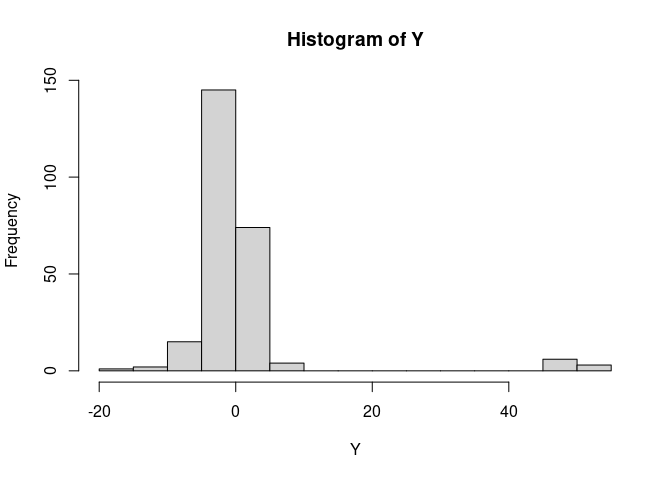
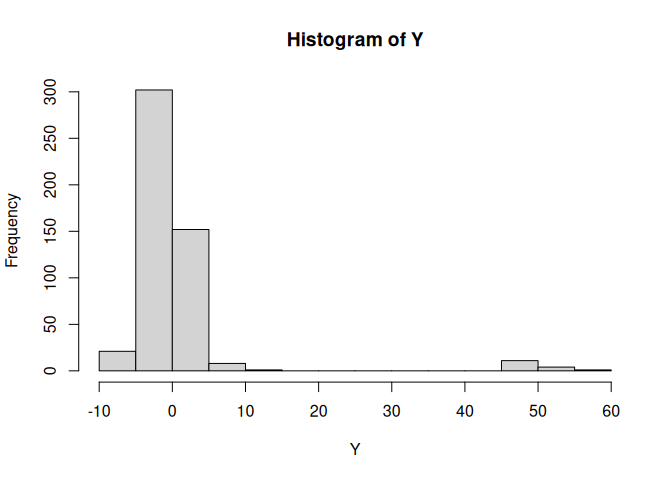
update readme and front end example

diff --git a/README.md b/README.md
@@ -1,7 +1,7 @@
 
 <!-- README.md is generated from README.Rmd. Please edit this file -->
 
-# gddlm – Robust double linear models using gamma divergence
+# gddlm: Robust double linear models using gamma divergence
 
 <!-- badges: start -->
 
@@ -27,8 +27,9 @@ the help of `pak` package using:
 
 # Getting started and example usage
 
-Please check the help file for the main `gddlm` function after
-installation. Alternatively, you can follow the basic example below.
+Please check the help files for the main `gddlm` and `gddlm_lsa`
+functions after installation. Alternatively, you can follow the basic
+example below.
 
 ``` r
 library(tidyverse)
@@ -42,8 +43,8 @@ Simulate data from a double linear model with (average 5%) outliers in
 the response variable
 
 ``` r
-set.seed(012026)
-n <- 250
+set.seed(062026)
+n <- 500
 p <- 10
 H <- abs(outer(1:p, 1:p, "-"))
 H <- 0.75^H
@@ -88,9 +89,6 @@ runcv <- cv_gddlm(mu_formula = make_mu_formula,
 #> Onto fold 8...
 #> Onto fold 9...
 #> Onto fold 10...
-```
-
-``` r
 
 fit_gddglm_choosegamma <- gddlm(mu_formula = make_mu_formula,
                                 sigma_formula = make_sigma_formula,
@@ -103,105 +101,97 @@ Demonstration of some of the functions available in the package
 ``` r
 fit_gddglm_choosegamma %>% 
     str
-#> List of 15
+#> List of 16
 #>  $ call                : language gddlm(mu_formula = make_mu_formula, sigma_formula = make_sigma_formula,      data = data.frame(response = Y, X[, | __truncated__
 #>  $ mu_formula          :Class 'formula'  language response ~ X1 + X2 + X3 + X4 + X5 + X6 + X7 + X8 + X9 + X10
-#>   .. ..- attr(*, ".Environment")=<environment: 0x5c80cbde12e8> 
+#>   .. ..- attr(*, ".Environment")=<environment: 0x6510dee4e950> 
 #>  $ sigma_formula       :Class 'formula'  language ~X1 + X2 + X3 + X4 + X5 + X6 + X7 + X8 + X9 + X10
-#>   .. ..- attr(*, ".Environment")=<environment: 0x5c80cbe95960> 
-#>  $ model               :'data.frame':    250 obs. of  11 variables:
-#>   ..$ response: num [1:250] 0.02842 -1.13633 0.26403 1.51584 -0.00728 ...
-#>   ..$ X1      : num [1:250] -0.743 -1.604 -0.867 -0.973 -0.34 ...
-#>   ..$ X2      : num [1:250] -0.383 -1.58 0.505 -0.894 -0.606 ...
-#>   ..$ X3      : num [1:250] 0.08 -0.3233 0.2707 -0.6501 0.0689 ...
-#>   ..$ X4      : num [1:250] 0.54 -0.198 0.597 -0.684 -1.314 ...
-#>   ..$ X5      : num [1:250] 0.782 -1.444 0.765 -0.977 -0.963 ...
-#>   ..$ X6      : num [1:250] 0.0218 -1.0271 0.6141 -0.6685 0.1256 ...
-#>   ..$ X7      : num [1:250] -1.2093 -0.3664 0.3461 -0.132 0.0804 ...
-#>   ..$ X8      : num [1:250] -0.987 -0.552 -0.296 -0.351 0.268 ...
-#>   ..$ X9      : num [1:250] -0.0254 -0.8484 0.4772 -0.6726 0.5565 ...
-#>   ..$ X10     : num [1:250] 0.294 -1.241 0.768 -0.739 1.281 ...
-#>   ..- attr(*, "terms")=Classes 'terms', 'formula'  language response ~ X1 + X2 + X3 + X4 + X5 + X6 + X7 + X8 + X9 + X10
-#>   .. .. ..- attr(*, "variables")= language list(response, X1, X2, X3, X4, X5, X6, X7, X8, X9, X10)
-#>   .. .. ..- attr(*, "factors")= int [1:11, 1:10] 0 1 0 0 0 0 0 0 0 0 ...
-#>   .. .. .. ..- attr(*, "dimnames")=List of 2
-#>   .. .. .. .. ..$ : chr [1:11] "response" "X1" "X2" "X3" ...
-#>   .. .. .. .. ..$ : chr [1:10] "X1" "X2" "X3" "X4" ...
-#>   .. .. ..- attr(*, "term.labels")= chr [1:10] "X1" "X2" "X3" "X4" ...
-#>   .. .. ..- attr(*, "order")= int [1:10] 1 1 1 1 1 1 1 1 1 1
-#>   .. .. ..- attr(*, "intercept")= int 1
-#>   .. .. ..- attr(*, "response")= int 1
-#>   .. .. ..- attr(*, ".Environment")=<environment: R_GlobalEnv> 
-#>   .. .. ..- attr(*, "predvars")= language list(response, X1, X2, X3, X4, X5, X6, X7, X8, X9, X10)
-#>   .. .. ..- attr(*, "dataClasses")= Named chr [1:11] "numeric" "numeric" "numeric" "numeric" ...
-#>   .. .. .. ..- attr(*, "names")= chr [1:11] "response" "X1" "X2" "X3" ...
-#>  $ mu_coefficients     : Named num [1:11] -1.045 -1.11 1.253 -0.656 0.441 ...
+#>   .. ..- attr(*, ".Environment")=<environment: 0x6510deeb18b8> 
+#>  $ model               :'data.frame':    500 obs. of  11 variables:
+#>   ..$ response: num [1:500] -1.58 10.06 -1.85 -3.26 -2.56 ...
+#>   ..$ X1      : num [1:500] 1.892 0.674 -0.583 0.789 1.244 ...
+#>   ..$ X2      : num [1:500] 0.995 1.229 -0.407 -0.667 0.757 ...
+#>   ..$ X3      : num [1:500] 1.177 0.14 0.368 -0.295 0.785 ...
+#>   ..$ X4      : num [1:500] 0.873 -1.108 -0.143 -1.546 1.28 ...
+#>   ..$ X5      : num [1:500] 1.118 -0.349 0.742 -1.604 1.253 ...
+#>   ..$ X6      : num [1:500] 1.993 0.897 -0.146 -1.317 0.848 ...
+#>   ..$ X7      : num [1:500] 2.237 0.479 -0.235 -1.316 1.426 ...
+#>   ..$ X8      : num [1:500] 1.53 -1.364 -0.568 -1.973 -0.406 ...
+#>   ..$ X9      : num [1:500] 0.978 -0.65 -0.746 -2.823 -1.585 ...
+#>   ..$ X10     : num [1:500] 1.277 -2.057 0.391 -2.11 -0.594 ...
+#>  $ mu_coefficients     : Named num [1:11] -1.008 -0.714 0.795 -0.767 0.628 ...
 #>   ..- attr(*, "names")= chr [1:11] "(Intercept)" "X1" "X2" "X3" ...
-#>  $ sigma_coefficients  : Named num [1:11] 0.474 0.484 -0.144 0.156 -0.478 ...
+#>  $ sigma_coefficients  : Named num [1:11] 0.5218 0.5593 -0.0182 -0.0566 -0.4533 ...
 #>   ..- attr(*, "names")= chr [1:11] "(Intercept)" "X1" "X2" "X3" ...
-#>  $ mu_fitted           : num [1:250] -0.149 -1.551 0.98 -1.276 -2.366 ...
-#>  $ sigma_fitted        : num [1:250] 0.863 1.334 0.757 1.69 1.914 ...
-#>  $ raw_residuals       : num [1:250] 0.177 0.415 -0.716 2.792 2.359 ...
-#>  $ pearson_residuals   : num [1:250] 0.205 0.311 -0.946 1.652 1.232 ...
-#>  $ final_weights       : num [1:250] 1.389 1.209 1.272 0.759 0.876 ...
-#>  $ gamma_tuning        : num 0.3
-#>  $ gamma_divergence    : num -446
-#>  $ V_mu_coefficients   : num [1:11, 1:11] 0.01909 0.01114 -0.00399 0.00179 -0.00784 ...
+#>  $ mu_fitted           : num [1:500] -2 -1.59 -1.02 -3.17 -1 ...
+#>  $ sigma_fitted        : num [1:500] 3.55 5.61 1.58 6.03 2.98 ...
+#>  $ raw_residuals       : num [1:500] 0.4238 11.6476 -0.8268 -0.0924 -1.5523 ...
+#>  $ pearson_residuals   : num [1:500] 0.1194 2.077 -0.5239 -0.0153 -0.5205 ...
+#>  $ final_weights       : num [1:500] 0.893 0.358 1.133 0.744 0.907 ...
+#>  $ gamma_tuning        : num 0.35
+#>  $ gamma_divergence    : num -879
+#>  $ V_full              : num [1:22, 1:22] 1.02e-02 5.46e-03 1.14e-05 1.52e-04 -5.17e-03 ...
+#>   ..- attr(*, "dimnames")=List of 2
+#>   .. ..$ : chr [1:22] "(Intercept)" "X1" "X2" "X3" ...
+#>   .. ..$ : chr [1:22] "(Intercept)" "X1" "X2" "X3" ...
+#>  $ V_mu_coefficients   : num [1:11, 1:11] 1.02e-02 5.46e-03 1.14e-05 1.52e-04 -5.17e-03 ...
 #>   ..- attr(*, "dimnames")=List of 2
 #>   .. ..$ : chr [1:11] "(Intercept)" "X1" "X2" "X3" ...
 #>   .. ..$ : chr [1:11] "(Intercept)" "X1" "X2" "X3" ...
-#>  $ V_sigma_coefficients: num [1:11, 1:11] 0.003675 0.000201 0.000582 -0.000734 0.000143 ...
+#>  $ V_sigma_coefficients: num [1:11, 1:11] 2.00e-03 3.09e-04 2.73e-04 3.83e-05 -6.35e-04 ...
 #>   ..- attr(*, "dimnames")=List of 2
 #>   .. ..$ : chr [1:11] "(Intercept)" "X1" "X2" "X3" ...
 #>   .. ..$ : chr [1:11] "(Intercept)" "X1" "X2" "X3" ...
 #>  - attr(*, "class")= chr "gddlm"
-```
-
-``` r
 
 summary(fit_gddglm_choosegamma)
-#> Double linear model fitted using gamma divergence with gamma = 0.3 
+#> Double linear model fitted using gamma divergence with gamma = 0.35 
 #> Formula:
 #> response ~ X1 + X2 + X3 + X4 + X5 + X6 + X7 + X8 + X9 + X10
-#> <environment: 0x5c80cbde12e8>
+#> <environment: 0x6510dee4e950>
 #> ~X1 + X2 + X3 + X4 + X5 + X6 + X7 + X8 + X9 + X10
-#> <environment: 0x5c80cbe95960>
+#> <environment: 0x6510deeb18b8>
 #> 
 #> Parametric coefficients (mu and sigma):
 #>                    Estimate Std. Error z value Pr(>|z|)    
-#> mu_(Intercept)    -1.045292   0.138169  -7.565 3.87e-14 ***
-#> mu_X1             -1.110320   0.145234  -7.645 2.09e-14 ***
-#> mu_X2              1.252945   0.190682   6.571 5.00e-11 ***
-#> mu_X3             -0.655773   0.174682  -3.754 0.000174 ***
-#> mu_X4              0.441316   0.156681   2.817 0.004853 ** 
-#> mu_X5              0.335970   0.185683   1.809 0.070393 .  
-#> mu_X6             -0.097287   0.172607  -0.564 0.573007    
-#> mu_X7              0.056360   0.180755   0.312 0.755192    
-#> mu_X8             -0.190879   0.155283  -1.229 0.218984    
-#> mu_X9              0.208394   0.139987   1.489 0.136574    
-#> mu_X10            -0.037177   0.130372  -0.285 0.775522    
-#> sigma_(Intercept)  0.473962   0.060622   7.818 5.35e-15 ***
-#> sigma_X1           0.484237   0.091212   5.309 1.10e-07 ***
-#> sigma_X2          -0.144390   0.120539  -1.198 0.230966    
-#> sigma_X3           0.155572   0.119813   1.298 0.194130    
-#> sigma_X4          -0.478307   0.112075  -4.268 1.97e-05 ***
-#> sigma_X5           0.008951   0.137674   0.065 0.948159    
-#> sigma_X6          -0.026517   0.127788  -0.208 0.835611    
-#> sigma_X7           0.187717   0.116311   1.614 0.106546    
-#> sigma_X8          -0.267821   0.124803  -2.146 0.031878 *  
-#> sigma_X9           0.269928   0.129544   2.084 0.037189 *  
-#> sigma_X10         -0.365758   0.116662  -3.135 0.001717 ** 
+#> mu_(Intercept)    -1.008060   0.101094  -9.971  < 2e-16 ***
+#> mu_X1             -0.713515   0.095948  -7.436 1.03e-13 ***
+#> mu_X2              0.795016   0.105147   7.561 4.00e-14 ***
+#> mu_X3             -0.767158   0.115109  -6.665 2.65e-11 ***
+#> mu_X4              0.628127   0.125624   5.000 5.73e-07 ***
+#> mu_X5              0.319577   0.123739   2.583 0.009804 ** 
+#> mu_X6             -0.087774   0.124295  -0.706 0.480080    
+#> mu_X7             -0.127017   0.116278  -1.092 0.274678    
+#> mu_X8             -0.018457   0.120650  -0.153 0.878416    
+#> mu_X9              0.036340   0.120255   0.302 0.762510    
+#> mu_X10             0.012260   0.098188   0.125 0.900630    
+#> sigma_(Intercept)  0.521790   0.044774  11.654  < 2e-16 ***
+#> sigma_X1           0.559314   0.064404   8.684  < 2e-16 ***
+#> sigma_X2          -0.018241   0.079314  -0.230 0.818108    
+#> sigma_X3          -0.056611   0.079691  -0.710 0.477471    
+#> sigma_X4          -0.453271   0.080216  -5.651 1.60e-08 ***
+#> sigma_X5           0.056826   0.090392   0.629 0.529571    
+#> sigma_X6          -0.066878   0.085940  -0.778 0.436458    
+#> sigma_X7           0.291493   0.084689   3.442 0.000578 ***
+#> sigma_X8          -0.344956   0.088504  -3.898 9.71e-05 ***
+#> sigma_X9           0.004291   0.081395   0.053 0.957959    
+#> sigma_X10          0.084587   0.064117   1.319 0.187081    
 #> ---
 #> Signif. codes:  0 '***' 0.001 '**' 0.01 '*' 0.05 '.' 0.1 ' ' 1
 #> 
 #> 
-#> Residual degrees of freedom: 228 
-#> Gamma divergence: -446.0563
-```
-
-``` r
+#> Residual degrees of freedom: 478 
+#> Gamma divergence: -878.8318
 
 appraise(fit_gddglm_choosegamma)
+#> Warning: `aes_string()` was deprecated in ggplot2 3.0.0.
+#> ℹ Please use tidy evaluation idioms with `aes()`.
+#> ℹ See also `vignette("ggplot2-in-packages")` for more information.
+#> ℹ The deprecated feature was likely used in the gddlm package.
+#>   Please report the issue at <https://github.com/fhui28/gddlm/issues>.
+#> This warning is displayed once per session.
+#> Call `lifecycle::last_lifecycle_warnings()` to see where this warning was
+#> generated.
 ```
 
 <img src="man/figures/README-unnamed-chunk-5-1.png" width="100%" />
@@ -210,60 +200,48 @@ appraise(fit_gddglm_choosegamma)
 
 coef(fit_gddglm_choosegamma)
 #> (Intercept)          X1          X2          X3          X4          X5 
-#> -1.04529195 -1.11031958  1.25294484 -0.65577341  0.44131644  0.33597042 
+#> -1.00805981 -0.71351490  0.79501588 -0.76715837  0.62812689  0.31957701 
 #>          X6          X7          X8          X9         X10 
-#> -0.09728660  0.05635957 -0.19087916  0.20839436 -0.03717663
-```
-
-``` r
+#> -0.08777413 -0.12701708 -0.01845680  0.03633964  0.01226032
 coef(fit_gddglm_choosegamma, type = "sigma")
 #>  (Intercept)           X1           X2           X3           X4           X5 
-#>  0.473962012  0.484237441 -0.144390181  0.155571601 -0.478306825  0.008951375 
+#>  0.521789606  0.559313762 -0.018240721 -0.056610769 -0.453271344  0.056825892 
 #>           X6           X7           X8           X9          X10 
-#> -0.026517334  0.187716786 -0.267820596  0.269927990 -0.365758004
-```
-
-``` r
+#> -0.066877656  0.291493211 -0.344956407  0.004290749  0.084586991
 
 simulate(fit_gddglm_choosegamma, nsim = 10) %>% 
     str
-#> 'data.frame':    250 obs. of  10 variables:
-#>  $ sim_1 : num  -1.359 -0.207 1.076 -2.468 -2.218 ...
-#>  $ sim_2 : num  -0.627 -1.939 1.142 -0.408 -3.777 ...
-#>  $ sim_3 : num  -0.229 0.449 0.133 -1.167 -2.497 ...
-#>  $ sim_4 : num  1.278 0.164 0.852 -1.744 -2.32 ...
-#>  $ sim_5 : num  -0.26 -1.417 0.713 -0.631 -1.829 ...
-#>  $ sim_6 : num  0.444 -3.855 1.372 2.247 -3.665 ...
-#>  $ sim_7 : num  0.294 -1.776 2.388 -1.877 -5.421 ...
-#>  $ sim_8 : num  0.0443 -2.8441 -0.0128 -3.489 -5.0201 ...
-#>  $ sim_9 : num  -0.0269 -4.4495 1.3718 -0.8503 -0.8624 ...
-#>  $ sim_10: num  0.382 1.092 1.636 -1.481 -1.743 ...
-#>  - attr(*, "seed")= int [1:626] 10403 40 -1053275711 1919596251 509790488 1295980936 -960296891 94531324 -380244184 -532208171 ...
-```
-
-``` r
+#> 'data.frame':    500 obs. of  10 variables:
+#>  $ sim_1 : num  -2.38 -7.5 -2.93 -2.79 -2.11 ...
+#>  $ sim_2 : num  2.28 2.11 -3.84 11.19 1.87 ...
+#>  $ sim_3 : num  -11.39 2.15 -2.44 -11.69 -6.34 ...
+#>  $ sim_4 : num  -1.006 -9.068 -2.774 0.548 0.774 ...
+#>  $ sim_5 : num  -2.56 1.52 -1.45 -5.18 -5.17 ...
+#>  $ sim_6 : num  -5.80865 -10.07043 -0.00196 -6.77687 -3.1056 ...
+#>  $ sim_7 : num  -2.848 -4.076 -0.102 1.929 -1.035 ...
+#>  $ sim_8 : num  -0.316 -11.571 1.574 -11.66 -2.657 ...
+#>  $ sim_9 : num  -1.19 2.89 1.22 -5.32 3.23 ...
+#>  $ sim_10: num  -0.171 -6.551 -0.496 -5.883 2.888 ...
+#>  - attr(*, "seed")= int [1:626] 10403 80 -1437186727 2126329572 -488913071 -86937626 -1577149416 1537399949 -1012289428 1385622840 ...
 
 predict(fit_gddglm_choosegamma, predictor = "mu", se.fit = TRUE) %>% 
     head
-#>          fit    se.fit      lower       upper
-#> 1 -0.1489594 0.2277376 -0.5953169  0.29739812
-#> 2 -1.5512057 0.3037957 -2.1466344 -0.95577696
-#> 3  0.9795348 0.2255716  0.5374227  1.42164695
-#> 4 -1.2763706 0.1910713 -1.6508635 -0.90187764
-#> 5 -2.3659976 0.2775728 -2.9100302 -1.82196486
-#> 6 -0.7416024 0.4070302 -1.5393669  0.05616203
-```
-
-``` r
+#>          fit    se.fit     lower      upper
+#> 1 -2.0005503 0.2485797 -2.487758 -1.5133431
+#> 2 -1.5898385 0.3730717 -2.321046 -0.8586313
+#> 3 -1.0199697 0.1931697 -1.398575 -0.6413640
+#> 4 -3.1685645 0.3203783 -3.796494 -2.5406345
+#> 5 -1.0045116 0.2791003 -1.551538 -0.4574850
+#> 6 -0.9842505 0.3200514 -1.611540 -0.3569614
 predict(fit_gddglm_choosegamma, predictor = "sigma", se.fit = TRUE) %>% 
     head
 #>         fit   se.fit     lower    upper
-#> 1 0.8632558 1.200745 0.6031408 1.235550
-#> 2 1.3339486 1.215766 0.9095707 1.956328
-#> 3 0.7565296 1.202796 0.5268083 1.086424
-#> 4 1.6898861 1.116319 1.3620536 2.096625
-#> 5 1.9137916 1.235816 1.2637721 2.898148
-#> 6 3.6122831 1.287683 2.2006950 5.929304
+#> 1 3.5479285 1.157207 2.6649635 4.723441
+#> 2 5.6077849 1.238756 3.6858907 8.531791
+#> 3 1.5782589 1.128559 1.2451817 2.000432
+#> 4 6.0256004 1.203386 4.1918896 8.661454
+#> 5 2.9820786 1.187822 2.1281830 4.178585
+#> 6 0.9294103 1.254137 0.5962867 1.448638
 ```
 
 # If you find any bugs and issues…
